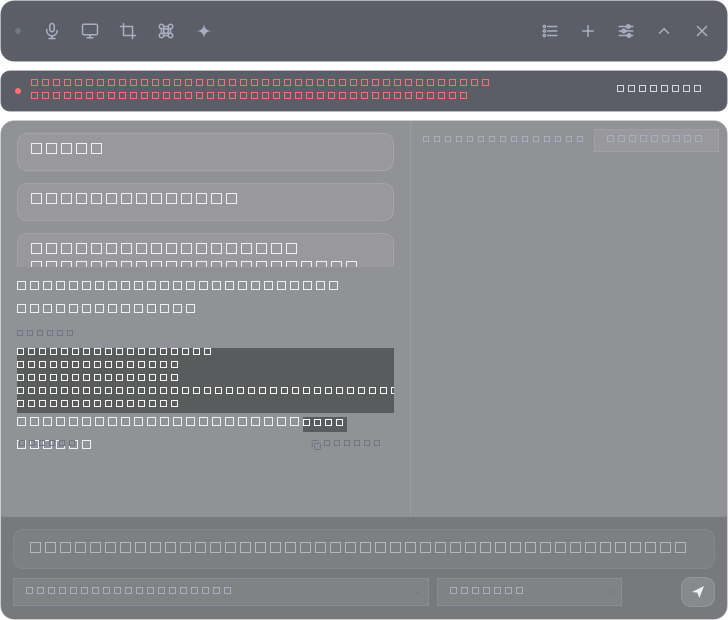
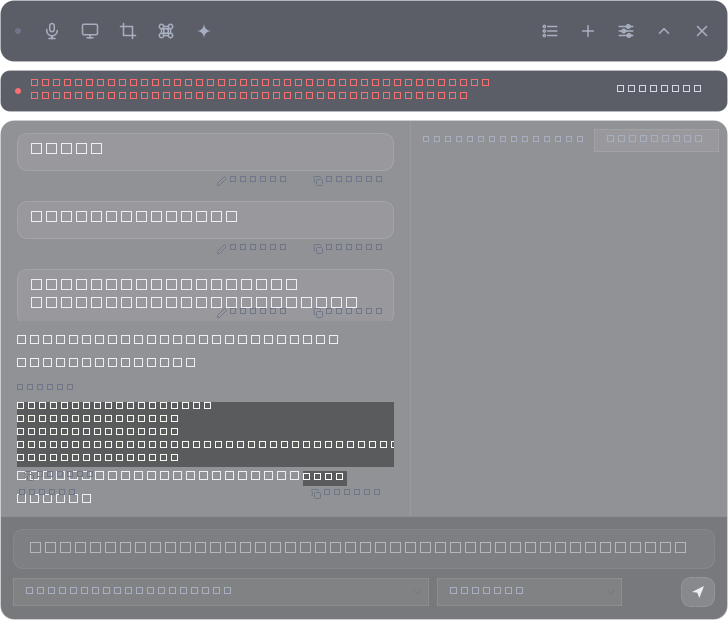
copy and edit features added to search area

Changed region(s): [[0.0, 0.3065, 0.544, 0.8274], [0.4231, 0.2758, 0.4835, 0.3065], [0.3324, 0.2758, 0.3929, 0.3065]]

diff --git a/claude-opus-5/stealthit/ui/widgets.py b/claude-opus-5/stealthit/ui/widgets.py
@@ -302,6 +302,7 @@ class MessageBubble(QFrame):
     One message. Assistant messages render markdown with highlighted code and
     a copy affordance per block; user messages are plain and right-aligned.
     """
+    edit_requested = Signal(str)
 
     def __init__(self, text: str, is_user: bool,
                  parent: QWidget | None = None) -> None:
@@ -334,6 +335,41 @@ class MessageBubble(QFrame):
                 f"padding:2px 0;color:{PALETTE.text};}}")
 
         outer.addWidget(self.body)
+        
+        self.actions_layout = QHBoxLayout()
+        self.actions_layout.setContentsMargins(0, 0, 0, 0)
+        self.actions_layout.setSpacing(SPACE.sm)
+
+        if is_user:
+            self.actions_layout.addStretch()
+
+            self.btn_edit = QPushButton("  Edit")
+            self.btn_edit.setIcon(icons.icon("edit", 12, PALETTE.text_faint))
+            self.btn_edit.setIconSize(QSize(12, 12))
+            self.btn_edit.setCursor(Qt.PointingHandCursor)
+            self.btn_edit.setStyleSheet(
+                f"QPushButton{{color:{PALETTE.text_faint};background:transparent;"
+                f"border:none;font-size:{TYPE.size_xs}px;padding:2px 6px;}}"
+                f"QPushButton:hover{{color:{PALETTE.text};}}")
+            self.btn_edit.clicked.connect(self._request_edit)
+            self.actions_layout.addWidget(self.btn_edit)
+
+        self.btn_copy = QPushButton("  Copy")
+        self.btn_copy.setIcon(icons.icon("copy", 12, PALETTE.text_faint))
+        self.btn_copy.setIconSize(QSize(12, 12))
+        self.btn_copy.setCursor(Qt.PointingHandCursor)
+        self.btn_copy.setStyleSheet(
+            f"QPushButton{{color:{PALETTE.text_faint};background:transparent;"
+            f"border:none;font-size:{TYPE.size_xs}px;padding:2px 6px;}}"
+            f"QPushButton:hover{{color:{PALETTE.text};}}")
+        self.btn_copy.clicked.connect(self._copy_text)
+        self.actions_layout.addWidget(self.btn_copy)
+        
+        if not is_user:
+            self.actions_layout.addStretch()
+
+        outer.addLayout(self.actions_layout)
+
         self._code_bars: list[CodeBlockBar] = []
         self._outer = outer
         self.set_text(text)
@@ -354,6 +390,19 @@ class MessageBubble(QFrame):
 
     def finalise(self) -> None:
         self.set_text(self._raw, streaming=False)
+
+    def _copy_text(self) -> None:
+        QApplication.clipboard().setText(self._raw)
+        self.btn_copy.setText("  Copied")
+        self.btn_copy.setIcon(icons.icon("copy", 12, PALETTE.success))
+        QTimer.singleShot(1400, self._reset_copy_label)
+
+    def _reset_copy_label(self) -> None:
+        self.btn_copy.setText("  Copy")
+        self.btn_copy.setIcon(icons.icon("copy", 12, PALETTE.text_faint))
+
+    def _request_edit(self) -> None:
+        self.edit_requested.emit(self._raw)
 
     def _rebuild_code_bars(self, text: str) -> None:
         for bar in self._code_bars:

diff --git a/claude-opus-5/stealthit/ui/overlay.py b/claude-opus-5/stealthit/ui/overlay.py
@@ -958,6 +958,7 @@ class Overlay(QMainWindow):
     def _add_bubble(self, text: str, is_user: bool) -> MessageBubble:
         self.empty_hint.hide()
         bubble = MessageBubble(text, is_user)
+        bubble.edit_requested.connect(self._edit_bubble_text)
         
         idx = self.answer_layout.indexOf(self.thinking)
         if idx < 0:
@@ -966,6 +967,10 @@ class Overlay(QMainWindow):
         self.answer_layout.insertWidget(idx, bubble)
         QTimer.singleShot(16, self._scroll_answers_to_bottom)
         return bubble
+
+    def _edit_bubble_text(self, text: str) -> None:
+        self.input.setPlainText(text)
+        self.focus_prompt()
 
     def _scroll_answers_to_bottom(self) -> None:
         bar = self.answer_scroll.verticalScrollBar()

diff --git a/claude-opus-5/stealthit/ui/icons.py b/claude-opus-5/stealthit/ui/icons.py
@@ -138,6 +138,17 @@ def _copy(p: QPainterPath) -> None:
     p.lineTo(17, 5)
 
 
+def _edit(p: QPainterPath) -> None:
+    # A simple pencil pointing bottom-left
+    p.moveTo(17, 3)
+    p.lineTo(21, 7)
+    p.lineTo(7, 21)
+    p.lineTo(3, 21)
+    p.lineTo(3, 17)
+    p.lineTo(17, 3)
+    p.closeSubpath()
+
+
 def _eye_off(p: QPainterPath) -> None:
     """Stealth: the app is watching, nothing is watching the app."""
     p.moveTo(2, 12)
@@ -217,6 +228,7 @@ _BUILDERS = {
     "stop": _stop,
     "plus": _plus,
     "copy": _copy,
+    "edit": _edit,
     "eye-off": _eye_off,
     "layers": _layers,
     "message": _message,
